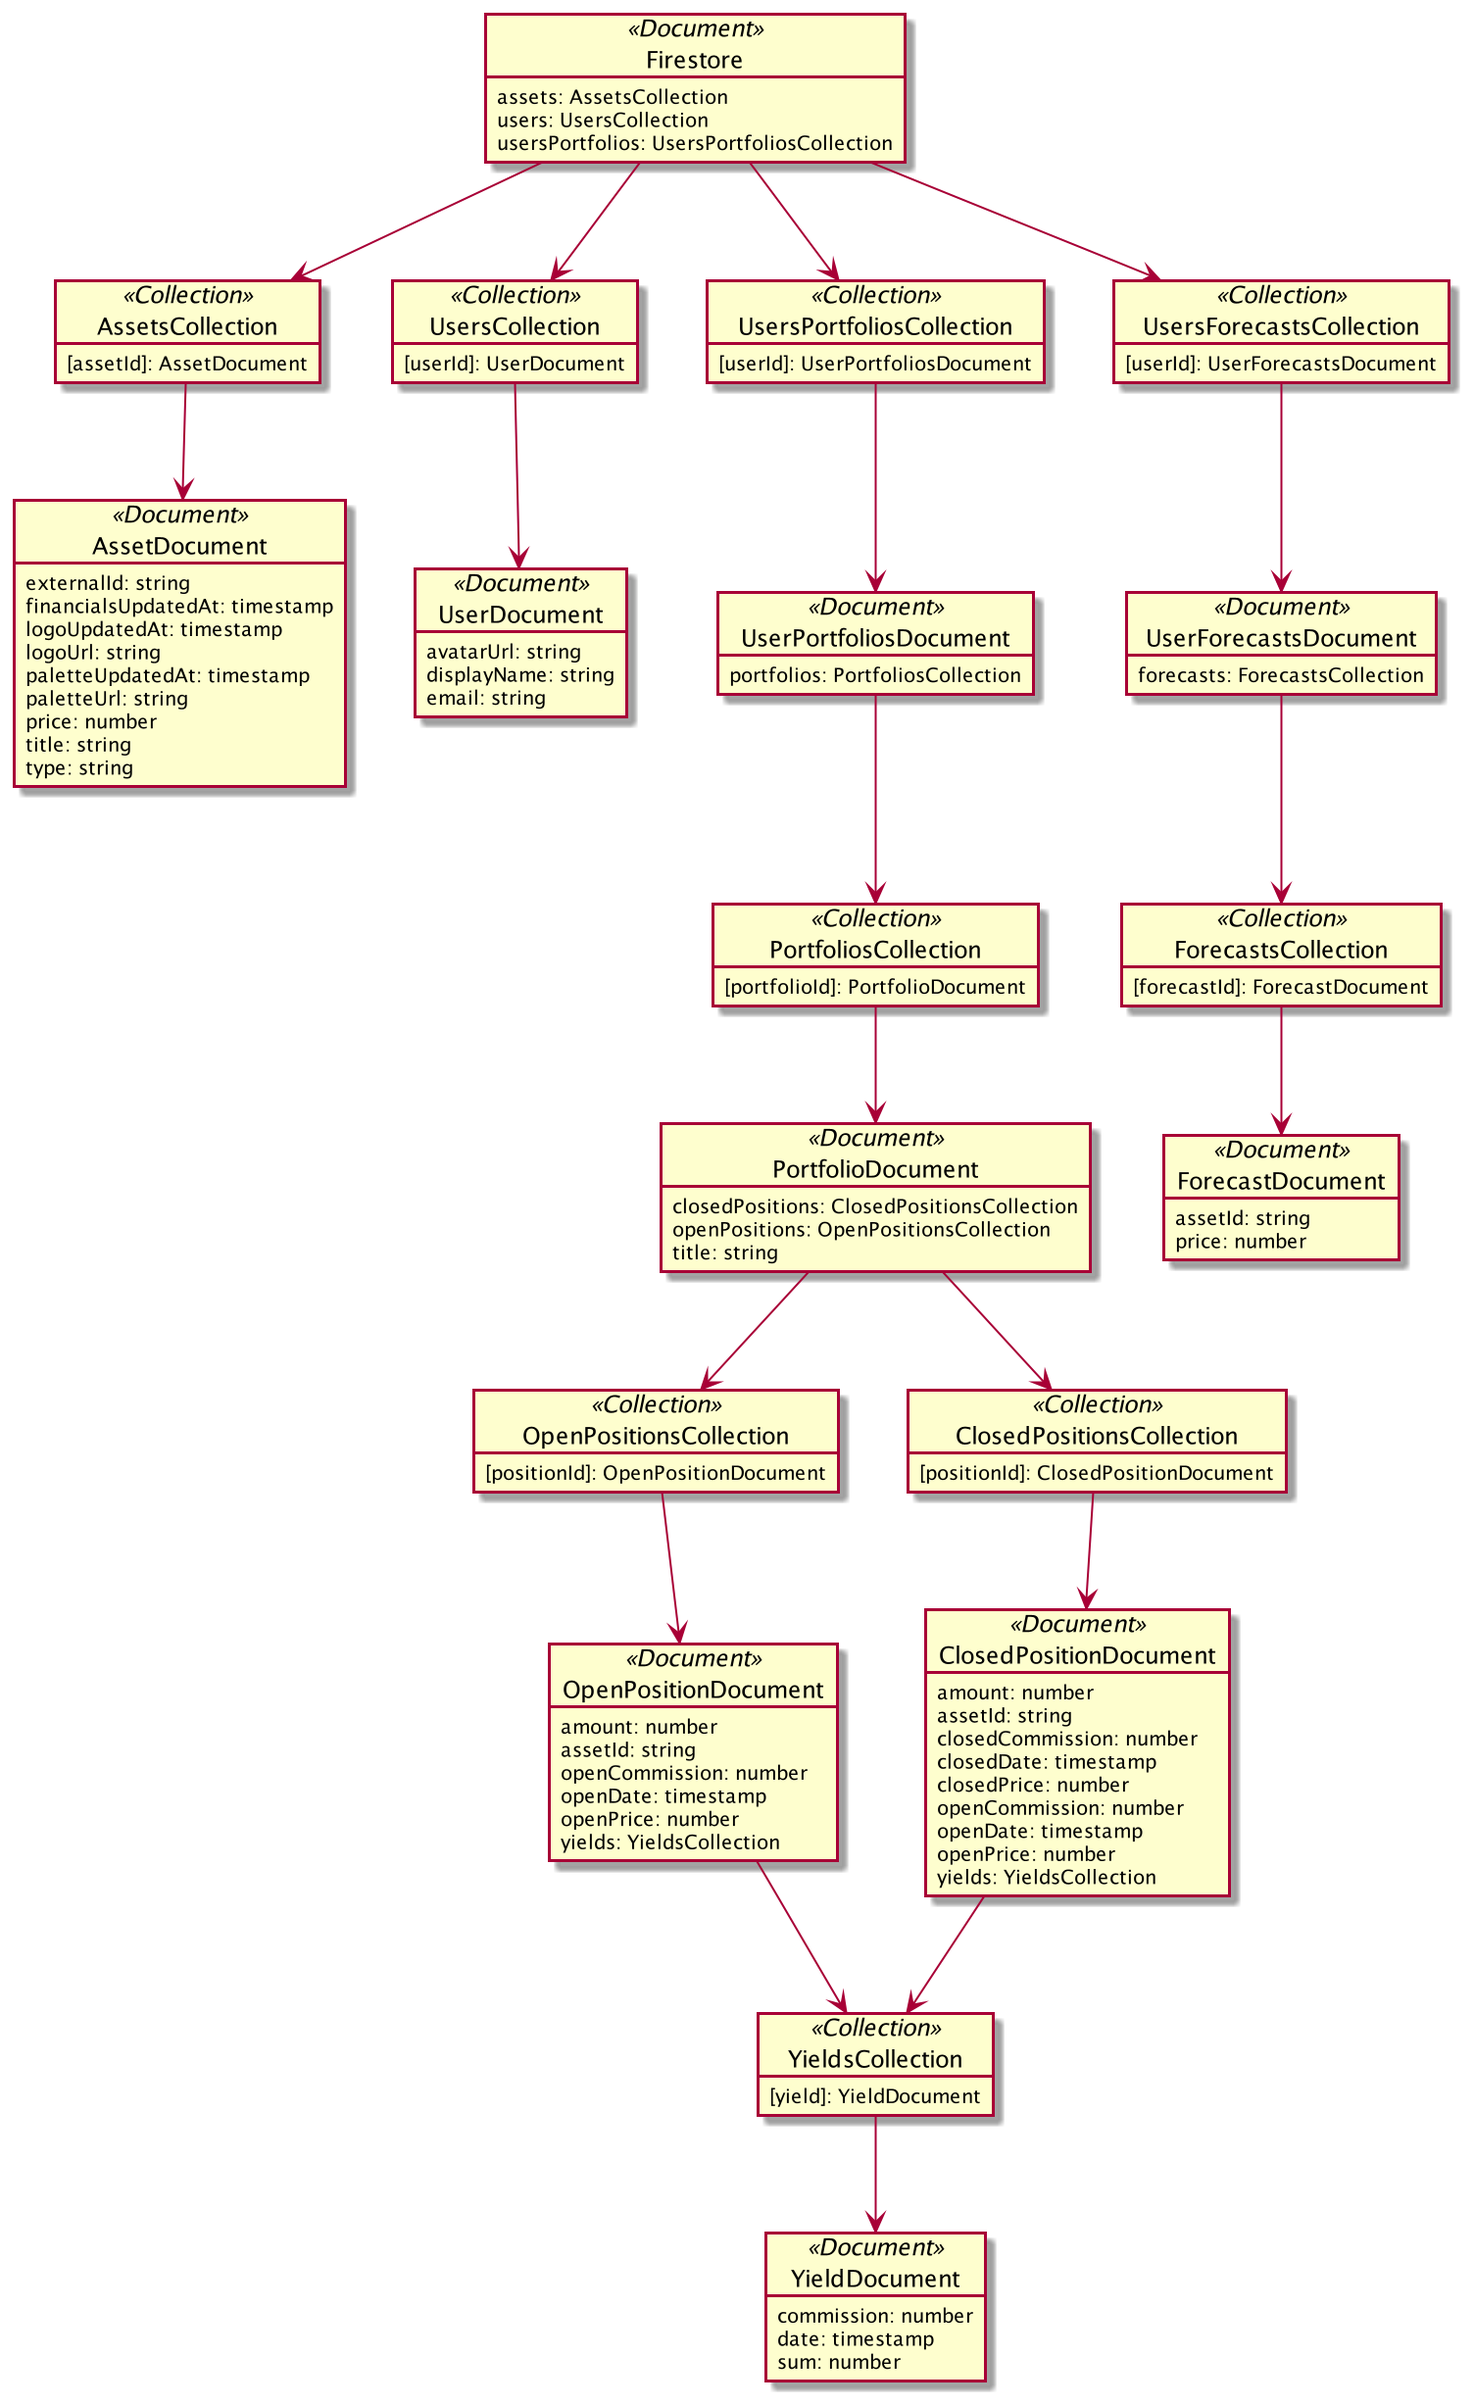
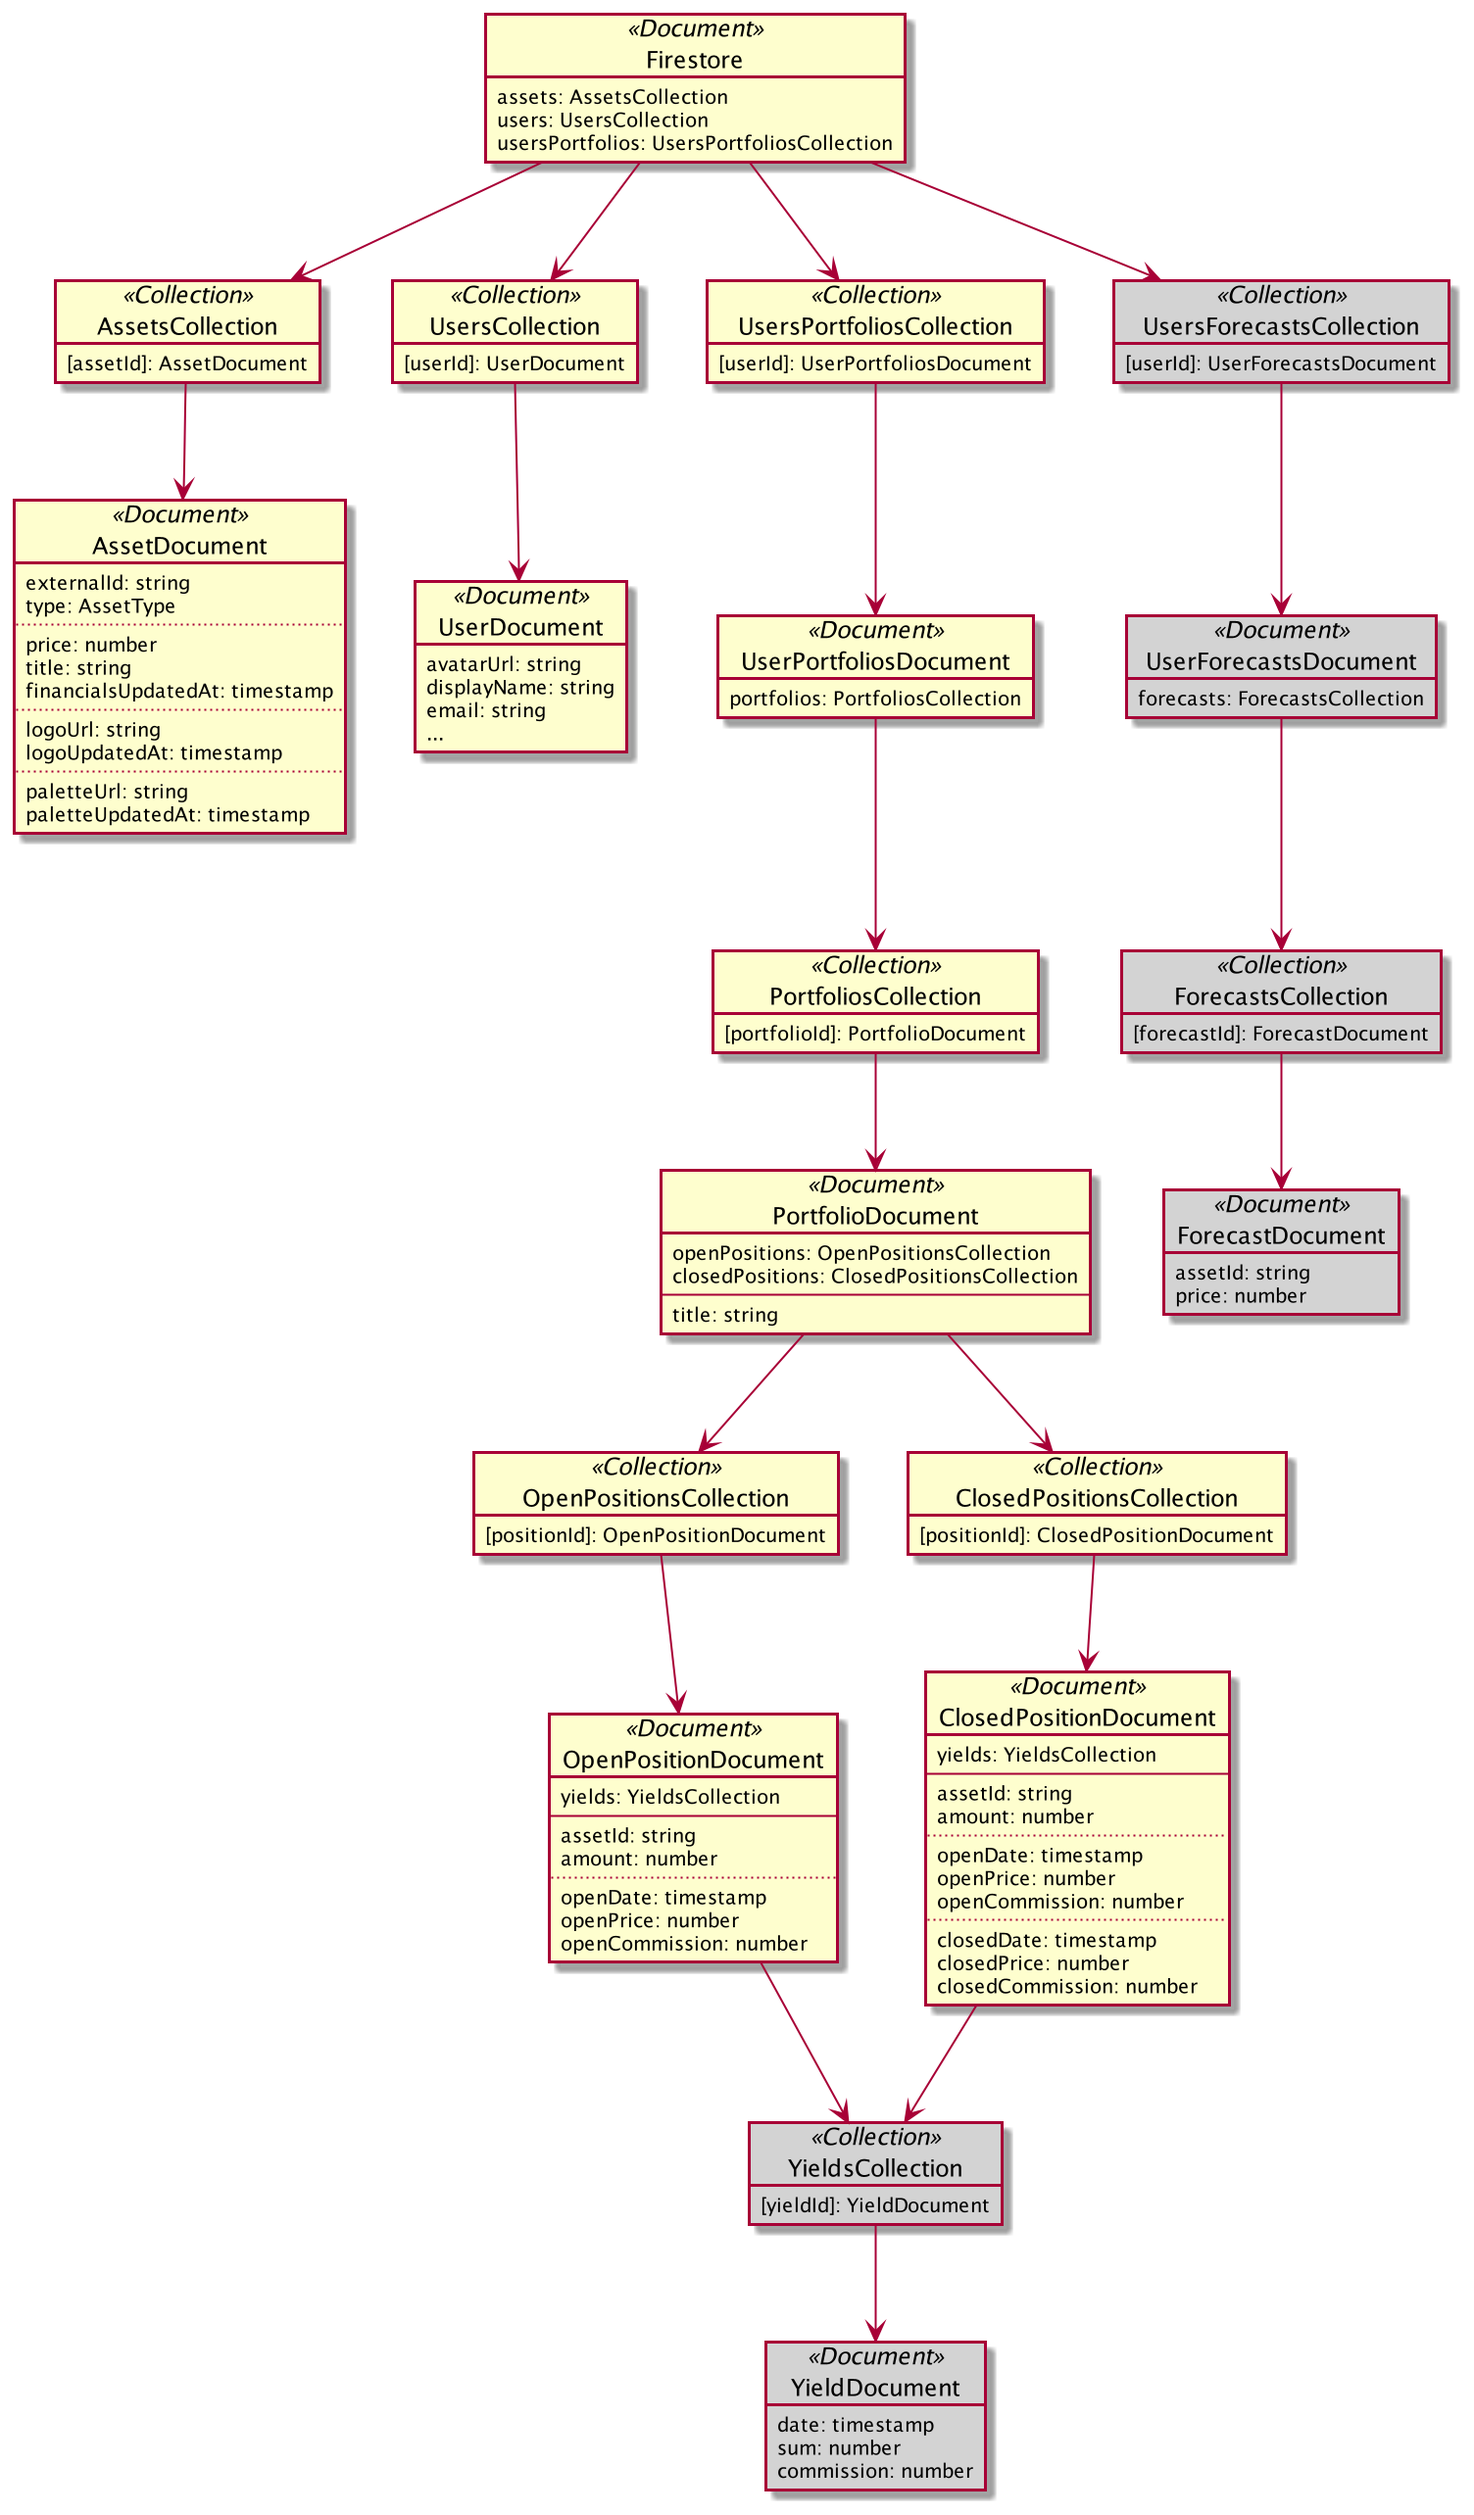
Update Database structures

diff --git a/shared/src/Database/Firestore.ts b/shared/src/Database/Firestore.ts
@@ -1,0 +1,9 @@
+import { AssetsCollection } from './Assets/AssetsCollection';
+import { UsersCollection } from './Users/UsersCollection';
+import { UsersPortfoliosCollection } from './UsersPortfolios/UsersPortfoliosCollection';
+
+export interface Firestore {
+  assets: AssetsCollection;
+  users: UsersCollection;
+  usersPortfolios: UsersPortfoliosCollection;
+}

diff --git a/shared/src/Database/Assets/AssetDocument.ts b/shared/src/Database/Assets/AssetDocument.ts
@@ -1,0 +1,19 @@
+import { AssetType } from './AssetType';
+
+export interface AssetDocument {
+  externalId: string;
+  type: AssetType;
+
+  // Financials.
+  price: number;
+  title: string;
+  financialsUpdatedAt: Date;
+
+  // Logo.
+  logoUrl?: string;
+  logoUpdatedAt: Date;
+
+  // Palette.
+  paletteUrl?: string;
+  paletteUpdatedAt?: Date;
+}

diff --git a/shared/src/index.ts b/shared/src/index.ts
@@ -1,8 +1,2 @@
-import { PositionDocument } from './Firestore/Positions';
-import { StockDocument, StockQuotePartialDocument } from './Firestore/Stocks';
-
-export {
-  PositionDocument,
-  StockDocument,
-  StockQuotePartialDocument,
-};
+export { AssetType } from './Database/Assets/AssetType';
+export { Firestore } from './Database/Firestore';

diff --git a/shared/src/Database/UsersPortfolios/Portfolios/PortfolioDocument.ts b/shared/src/Database/UsersPortfolios/Portfolios/PortfolioDocument.ts
@@ -1,0 +1,9 @@
+import { ClosedPositionsCollection } from './ClosedPositions/ClosedPositionsCollection';
+import { OpenPositionsCollection } from './OpenPositions/OpenPositionsCollection';
+
+export interface PortfolioDocument {
+  openPositions: OpenPositionsCollection;
+  closedPositions: ClosedPositionsCollection;
+
+  title: string;
+}

diff --git a/shared/src/Database/Users/UserDocument.ts b/shared/src/Database/Users/UserDocument.ts
@@ -1,0 +1,14 @@
+interface ProviderData {
+  email: string;
+  phoneNumber: null;
+  photoURL: string;
+  providerId: string;
+  uid: string;
+}
+
+export interface UserDocument {
+  avatarUrl: string;
+  displayName: string;
+  email: string;
+  providerData: ProviderData[];
+}

diff --git a/shared/src/Database/UsersPortfolios/Portfolios/ClosedPositions/ClosedPositionDocument.ts b/shared/src/Database/UsersPortfolios/Portfolios/ClosedPositions/ClosedPositionDocument.ts
@@ -1,0 +1,14 @@
+export interface ClosedPositionDocument {
+  assetId: string;
+  amount: number;
+
+  // Open.
+  openDate: Date;
+  openPrice: number;
+  openCommission: number;
+
+  // Closed.
+  closedDate: Date;
+  closedPrice: number;
+  closedCommission: number;
+}

diff --git a/shared/src/Database/UsersPortfolios/Portfolios/ClosedPositions/ClosedPositionsCollection.ts b/shared/src/Database/UsersPortfolios/Portfolios/ClosedPositions/ClosedPositionsCollection.ts
@@ -1,0 +1,5 @@
+import { ClosedPositionDocument } from './ClosedPositionDocument';
+
+export interface ClosedPositionsCollection {
+  [positionId: string]: ClosedPositionDocument;
+}

diff --git a/shared/src/Database/UsersPortfolios/Portfolios/OpenPositions/OpenPositionDocument.ts b/shared/src/Database/UsersPortfolios/Portfolios/OpenPositions/OpenPositionDocument.ts
@@ -1,0 +1,9 @@
+export interface OpenPositionDocument {
+  assetId: string;
+  amount: number;
+
+  // Open.
+  openDate: Date;
+  openPrice: number;
+  openCommission: number;
+}

diff --git a/shared/src/Database/UsersPortfolios/UsersPortfoliosCollection.ts b/shared/src/Database/UsersPortfolios/UsersPortfoliosCollection.ts
@@ -1,0 +1,5 @@
+import { UserPortfoliosDocument } from './UserPortfoliosDocument';
+
+export interface UsersPortfoliosCollection {
+  [userId: string]: UserPortfoliosDocument;
+}

diff --git a/shared/src/Database/UsersPortfolios/Portfolios/OpenPositions/OpenPositionsCollection.ts b/shared/src/Database/UsersPortfolios/Portfolios/OpenPositions/OpenPositionsCollection.ts
@@ -1,0 +1,5 @@
+import { OpenPositionDocument } from './OpenPositionDocument';
+
+export interface OpenPositionsCollection {
+  [positionId: string]: OpenPositionDocument;
+}

diff --git a/shared/src/Database/UsersPortfolios/UserPortfoliosDocument.ts b/shared/src/Database/UsersPortfolios/UserPortfoliosDocument.ts
@@ -1,0 +1,5 @@
+import { PortfoliosCollection } from './Portfolios/PortfoliosCollection';
+
+export interface UserPortfoliosDocument {
+  portfolios: PortfoliosCollection;
+}

diff --git a/shared/src/Database/UsersPortfolios/Portfolios/PortfoliosCollection.ts b/shared/src/Database/UsersPortfolios/Portfolios/PortfoliosCollection.ts
@@ -1,0 +1,5 @@
+import { PortfolioDocument } from './PortfolioDocument';
+
+export interface PortfoliosCollection {
+  [portfolioId: string]: PortfolioDocument;
+}
